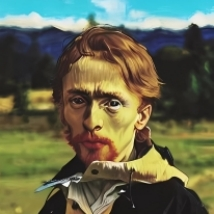
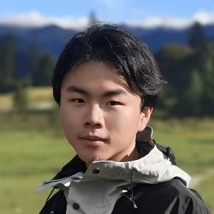
Update information

diff --git a/docs/.vitepress/theme/frame.css b/docs/.vitepress/theme/frame.css
@@ -121,8 +121,8 @@ a {
 
 /* 图片悬停切换核心逻辑 */
 .personal-info-image:hover .personal-info-img {
-  /* 确保 yuchen_vs.jpg 在 docs/public/ 目录下 */
-  content: url('/yuchen_vs.jpg'); 
+  /* 确保 yuchen_style.jpg 在 docs/public/ 目录下 */
+  content: url('/yuchen_style.jpg'); 
 }
 
 .personal-info-link {

diff --git a/docs/index.md b/docs/index.md
@@ -6,14 +6,14 @@ profile:
   title: About me
   title_zh: 关于我
   body: |
-    <p>Here is Yuchen Deng (Kieth, 邓宇宸).</p>
+    <p>Here is Yuchen Deng (Kieth, 邓宇宸). I am a junior at the School of Computer and Information Science at Southwest University.</p> 
+    <p>My research interests include Generative Model, 3D Reconstruction, and Spatial Augmented Reality. Also, Lateral Thinking with Withered Technology inspires my research exploration.</p>
     <p>If you are interested in any aspect of me, I would love to chat and collaborate, please email me at - ydeng714 AT gmail DOT com</p>
   body_zh: |
-    <p>你好，我是邓宇宸。</p>
-    <p>我目前是西南大学的在读学生，正在计算机视觉领域进行初步探索。</p>
+    <p>你好，我是邓宇宸，目前是西南大学的在读学生。我的研究兴趣包括生成模型、三维重建和空间增强现实。此外，枯萎技术的平行思考也激发了我的研究探索。</p>
     <p>如果您对我的工作或其他相关领域有兴趣，我非常期待有机会与您进一步交流，欢迎随时通过 ydeng714@gmail.com 与我联系。</p>
   links:
-    Google Scholar: "#"
+    Google Scholar: "https://scholar.google.com/citations?user=Dtup8JcAAAAJ&hl=en"
     Github: "https://github.com/Yu-chen-Deng"
 ---
 
